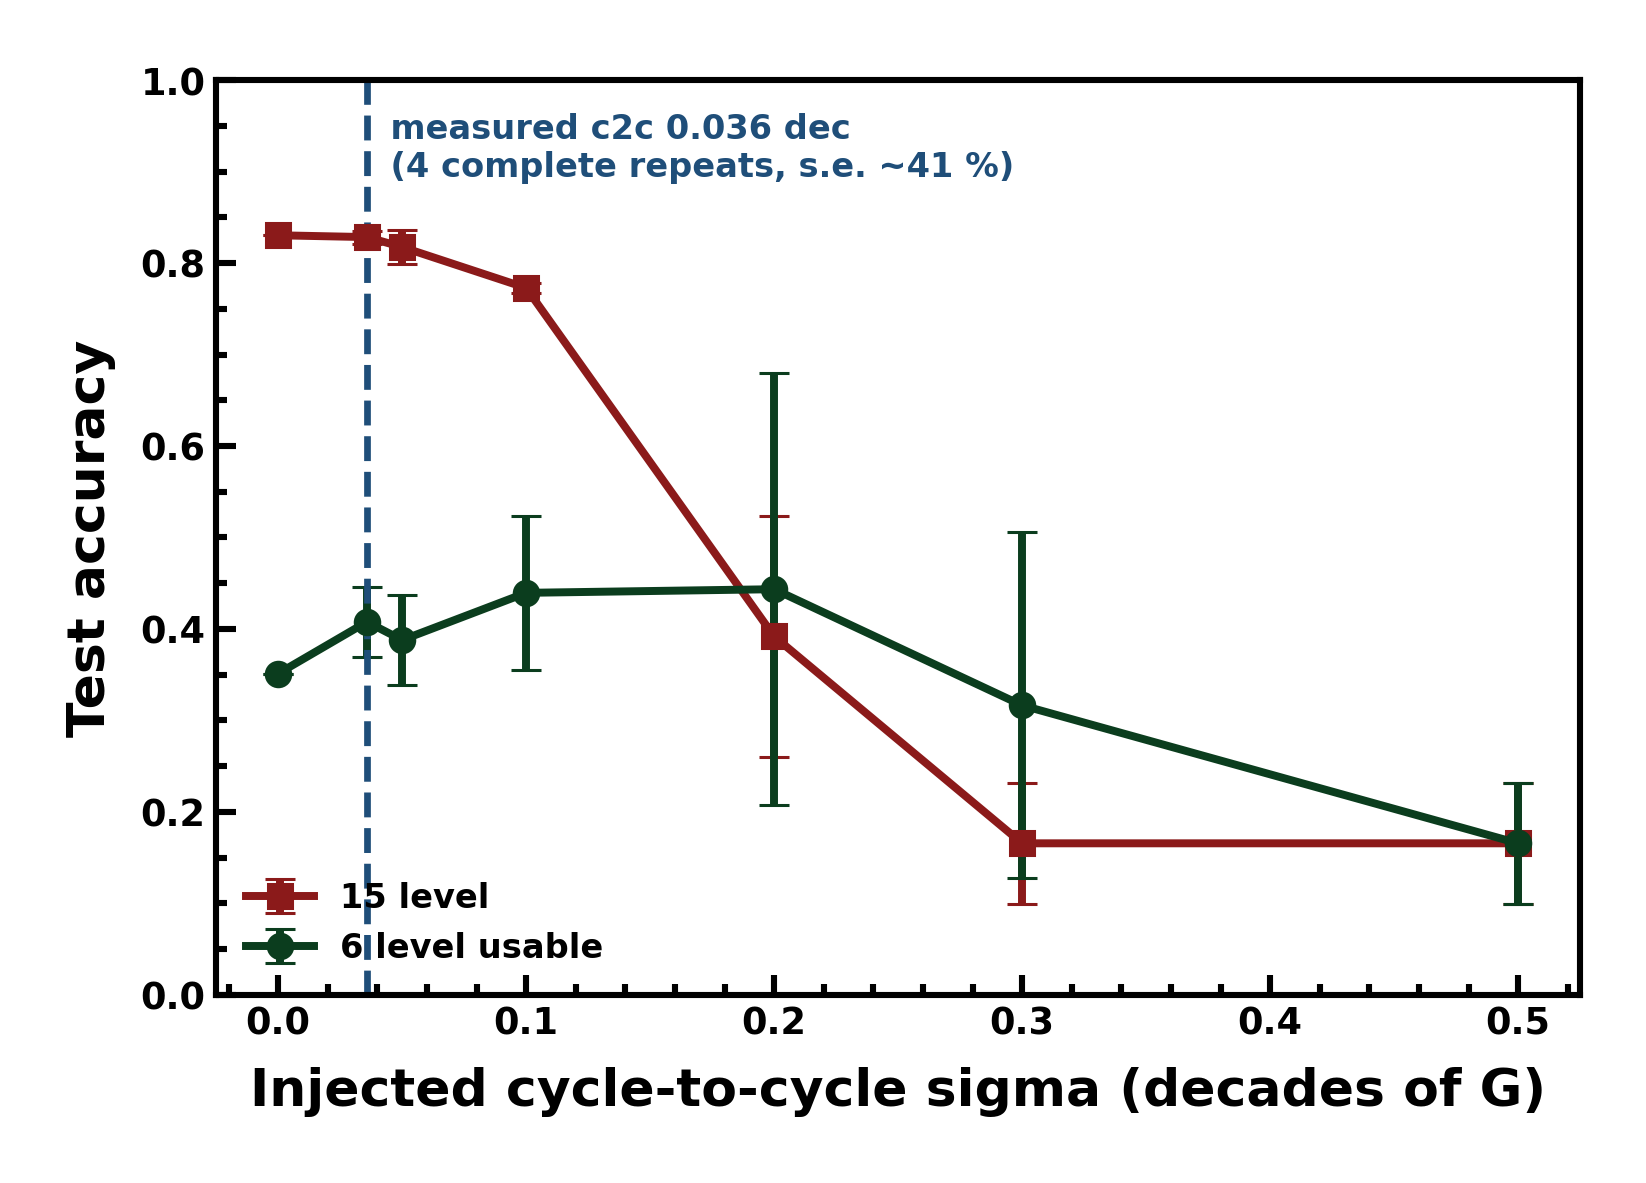
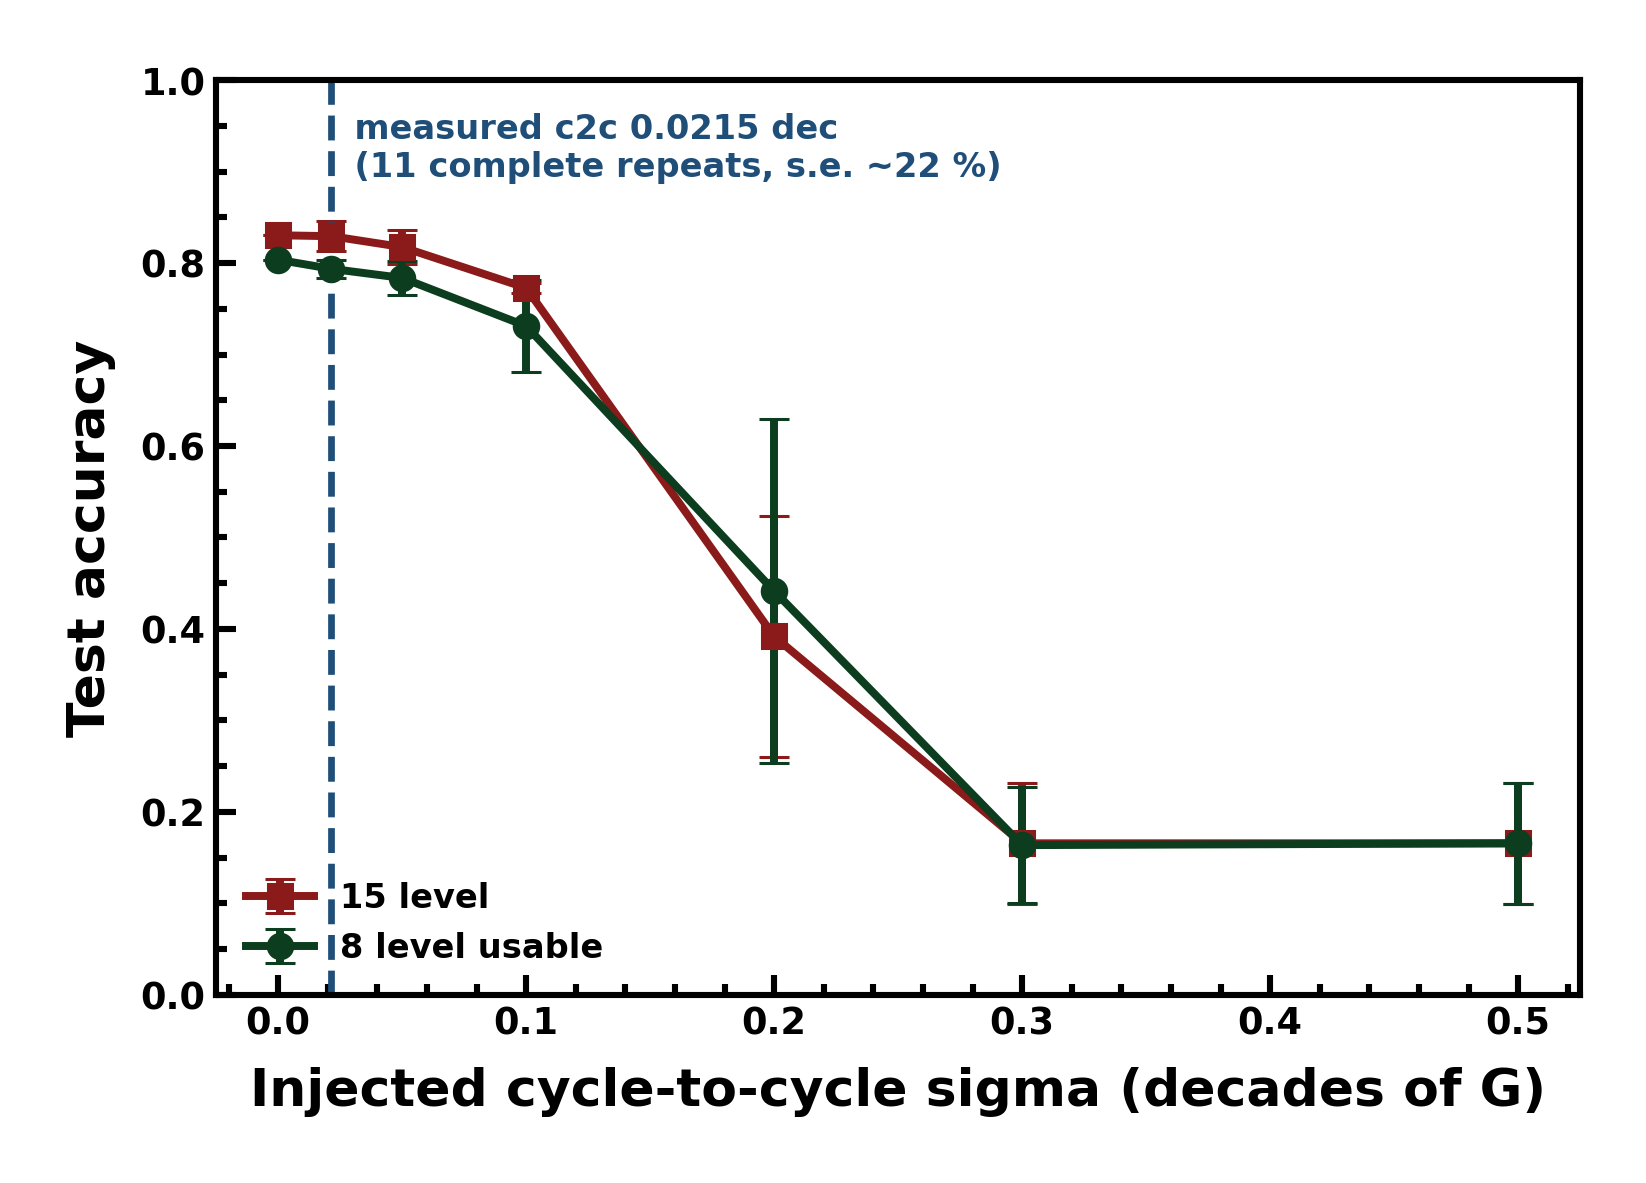
fix: K3b on the full t17_c2c download -- 11 repeats, not 4
A second harvest pass completed the t17_c2c download and rr8b re-ran on the
fuller set, so the numbers committed in ce60a64 are superseded:

                        4 repeats (was)   11 repeats (now)
    median sigma          0.0358 dec        0.0215 dec
    relative s.e.           41 %              22 %
    usable at 3 sigma     6 of 15           8 of 15  (band 7-9)
    15-level @ measured   0.8284            0.8294
    usable-grid @ meas.   0.4077            0.7937

The direction holds -- keeping all 15 levels is still right, and separability
still fails to predict accuracy -- but the magnitude does not. Restricting to
the separable count costs 0.036, not 0.42-0.48. The earlier figure came from 6
levels landing in the catastrophic regime K2 mapped; 8 lands on K2's
good-placement point.

That instability is now the headline argument rather than the raw penalty: a
design rule whose cost swings an order of magnitude on which integer a 3-sigma
test returns, from a sigma known to +-22 %, is not one to quantize a network by.
The robust statement is the direct one -- at the measured sigma, keeping all 15
levels costs 0.001.

Figure replotted from the 11-repeat sweep. PHASE_6_RESULTS 6.4c rewritten,
METHODOLOGY, README, PLOT_PLAN and the module docstring follow.

diff --git a/PYTHON_Modelling_Fefet_Codes/ecg detection/fig_k3_variability.py b/PYTHON_Modelling_Fefet_Codes/ecg detection/fig_k3_variability.py
@@ -49,14 +49,21 @@ K3b  cycle-to-cycle (RR-8b, `raw/c2c_per_level.csv`).
      kfig_common.paired_branches. On this ladder that matters -- (G+ + G-)/|w| reaches 4.8
      for weights like +-0.344 that can only be built as 1.000 - 0.656.
 
-     RESULT (t17_c2c, capped at 4 complete repeats, median sigma 0.0358 dec): the 15-level
-     grid loses 0.002 accuracy at the measured sigma (0.8304 -> 0.8284) and does not knee
-     until sigma ~ 0.1-0.2. Quantizing to the 6 levels that pass the 3-sigma criterion
-     costs 0.42-0.48 instead. So do NOT quantize to the separable-level count: separability
+     RESULT (t17_c2c, capped at 11 complete repeats of 20, median sigma 0.0215 dec, s.e.
+     ~22 %): the 15-level grid loses 0.001 accuracy at the measured sigma (0.8304 ->
+     0.8294) and does not knee until sigma ~ 0.1-0.2, i.e. 5-9x the measurement.
+     Quantizing to the 8 levels that pass the 3-sigma criterion costs 0.036 instead.
+
+     Do NOT quantize to the separable-level count, for two reasons. First, separability
      asks whether a level can be told apart from its neighbour on READOUT, while the
      network only needs the realized weight near the target, and levels that overlap under
-     noise are still monotonic and still carry weight information. This is the third place
-     in Phase 6 where a level-distinguishability statistic fails to predict accuracy.
+     noise are still monotonic and still carry weight information -- the third place in
+     Phase 6 where a level-distinguishability statistic fails to predict accuracy. Second,
+     and more practically, the criterion's OUTPUT IS UNSTABLE: an earlier pass on a partial
+     download saw 4 repeats, put sigma at 0.0358 and the count at 6, and 6 lands in the
+     catastrophic regime K2 mapped -- so the same rule would have cost 0.42 instead of
+     0.036. A design rule whose penalty swings an order of magnitude on which integer a
+     3-sigma test returns, from a sigma known to +-22 %, is not one to quantize by.
 
     python fig_k3_variability.py d2d     # K3a: 20 corners, no calibration vs write-verify
     python fig_k3_variability.py gain    # K3a: adds the gain-trim condition

diff --git a/PHASE_6_RESULTS.md b/PHASE_6_RESULTS.md
@@ -21,7 +21,7 @@ turned out to be wrong:
 | `dev1/2/4/5` figures | still pre-Phase-1 **and** pre-RR-0; the published memory-window figure was the superseded sweep |
 | `dev3_retention` | plotted the 17.5–100 µs settling transient and captioned it as retention drift — Phase-5 error #7 baked into a figure |
 | K3b noise model | mine: c2c was multiplying the weight instead of each conductance branch |
-| handoff §6.4 point 3 | "quantize to the separable-level count, not 15" costs **0.42–0.48 accuracy**; the measured c2c costs 0.002 (§6.4c) |
+| handoff §6.4 point 3 | "quantize to the separable-level count, not 15" costs **0.036 accuracy**, and the criterion's own output is unstable (6 levels on 4 repeats, 8 on 11); the measured c2c itself costs 0.001 (§6.4c) |
 
 And `cal_n16`'s MW = 1.218 vs 1.30 V was resolved as a **criterion** mismatch, not a
 fabrication (§"Also fixed on the way past").
@@ -246,57 +246,61 @@ decades.
 
 RR-8b repeats the **same** 15-pulse train on **one** device, so unlike RR-8 it is a genuine
 σ and is the legitimate stochastic input. The run was **capped, not completed**: the worker
-killed it at 7200 s (`END t17_c2c rc=137 7200s plt=1270`) after 4 complete repeats of the
-20 queued, plus a partial fifth that `rr8b` dropped by name. Reported as 4 repeats, not 20.
+killed it at 7200 s (`END t17_c2c rc=137 7200s plt=1270`), and `rr8b` kept the **11 complete
+repeats** of the 20 queued, dropping the partial ones by name.
 
 | | |
 |---|---|
-| median σ | **0.0358 decades** |
-| complete repeats | **4** of 20 → relative s.e. of σ ≈ **41 %** |
-| usable levels at 3σ | **6** of 15 (band 5–8 across the σ uncertainty) |
+| median σ | **0.0215 decades** |
+| complete repeats | **11** of 20 → relative s.e. of σ ≈ **22 %** |
+| usable levels at 3σ | **8** of 15 (band 7–9 across the σ uncertainty) |
 
-| injected σ (dec) | 0 | **0.0358** | 0.05 | 0.10 | 0.20 | 0.30 |
+| injected σ (dec) | 0 | **0.0215** | 0.05 | 0.10 | 0.20 | 0.30 |
 |---|---:|---:|---:|---:|---:|---:|
-| 15-level grid | 0.8304 | **0.8284** | 0.8175 | 0.7728 | 0.3919 | 0.1657 |
-| 6-level "usable" grid | 0.3512 | 0.4077 | 0.3879 | 0.4395 | 0.4435 | 0.3165 |
+| 15-level grid | 0.8304 | **0.8294** | 0.8175 | 0.7728 | 0.3919 | 0.1657 |
+| 8-level "usable" grid | 0.8036 | 0.7937 | 0.7837 | 0.7312 | 0.4415 | 0.1637 |
 
-**At the measured σ the full 15-level grid loses 0.002 accuracy.** The knee is at
-σ ≈ 0.1–0.2 decades, so the device sits 3–6× below it. That conclusion survives the thin
-statistics: at 0.05 (≈ +1 s.e. on σ) accuracy is still 0.8175, and it only collapses at
-0.20, which is ≈4.4 s.e. above the measurement.
+**At the measured σ the deployed 15-level network loses 0.001 accuracy.** The knee is at
+σ ≈ 0.1–0.2 decades, so the device sits 5–9× below it, and the conclusion is robust to the
+σ uncertainty: even at 0.05 (≈ +2 s.e.) accuracy is still 0.8175.
 
-### The handoff's prescription for this figure is wrong, and the data says so
+### On the handoff's instruction for this figure
 
-The handoff instructed: *"`c2c_per_level.csv` carries a `separable_from_prev` column at a
-3-sigma criterion and the analysis prints the usable level count — **that count, not 15, is
-what K3 should quantize to**."*
+The handoff said: *"`c2c_per_level.csv` carries a `separable_from_prev` column at a 3-sigma
+criterion and the analysis prints the usable level count — **that count, not 15, is what K3
+should quantize to**."*
 
-Quantizing to that count costs **0.42–0.48 accuracy** (0.8304 → 0.3512 at σ = 0; 0.8284 →
-0.4077 at the measured σ). Keeping all 15 levels under the measured noise costs 0.002.
-Following the instruction would have made the reported result dramatically worse and would
-have blamed the device for it.
+Quantizing to that count costs **0.036 accuracy** (0.8294 → 0.7937 at the measured σ), so it
+is still the wrong call — but modestly, not catastrophically. **This number is the one place
+in Phase 6 where more data moved a conclusion, and it is worth recording why.** An earlier
+pass on a partial download saw only 4 complete repeats, put σ at 0.0358 and the usable count
+at **6**, and gave a penalty of 0.42–0.48. Six levels lands in the catastrophic regime K2
+mapped; eight lands on K2's good-placement point. The accuracy consequence of the criterion
+therefore swung by an order of magnitude on which integer it happened to return.
 
-The reason is that separability and accuracy are different questions. A 3σ criterion asks
-whether a level can be **told apart from its neighbour on readout**. The network never asks
-that: it needs the realized weight to sit near the target, and levels that overlap under
-noise are still monotonic and still carry weight information. Discarding nine of them
-throws away resolution the classifier was using, and the noise that "justified" discarding
-them costs almost nothing.
+**That instability is the real argument against the instruction.** A design rule whose output
+is an integer derived from a 3σ test on a σ that is itself known to ±22 % — and whose cost
+swings from −0.04 to −0.45 depending on whether that integer is 8 or 6 — is not a rule to
+quantize a network by. The robust statement is the direct one: at the measured σ, keeping
+all 15 levels costs 0.001, so keep them.
 
-This is the **third** time in Phase 6 that a level-distinguishability statistic failed to
-predict accuracy — after RR-8's ensemble overlap (§6.4a) and the post-gain-trim overlap
-(§6.4b). The consistent finding across all three: **overlap and separability describe
-readout addressing, not deployed-weight error, and only the latter moves the classifier.**
+The underlying reason separability is the wrong test is unchanged. It asks whether a level
+can be distinguished from its neighbour **on readout**; the network only requires the
+realized weight to sit near its target, and levels that overlap under noise remain monotonic
+and still carry weight information. This is the **third** independent case in Phase 6 of a
+level-distinguishability statistic failing to predict accuracy — after RR-8's ensemble
+overlap (§6.4a) and the post-gain-trim overlap (§6.4b). Consistently: **overlap and
+separability describe readout addressing, not deployed-weight error, and only the latter
+moves the classifier.**
 
-One detail worth not over-reading: the 6-level series is *non-monotonic* in σ (0.351 →
-0.408 → 0.388 → 0.440 → 0.444). Noise dithers a grid too coarse to represent the weights,
-which occasionally helps — the same erratic sub-8-level behaviour K2 found, and not a
-result to build on.
+One detail not to over-read: deep in the collapse (σ = 0.2) the 8-level grid slightly beats
+the 15-level one (0.4415 vs 0.3919). A coarser grid is more noise-robust once noise exceeds
+level spacing — but both are far below usable accuracy there, so it is not a design argument.
 
-**Caveat carried into the paper:** 4 repeats is thin, and σ is known only to ±41 %. The
-claim being made is bounded — *at and around the measured σ, cycle-to-cycle costs
-essentially nothing* — not a precise σ. A completed 20-repeat run would tighten σ but
-cannot change that conclusion unless the true σ is ~3× the measured one.
+**Caveat carried into the paper:** 11 repeats, not the 20 queued, and σ is known to ±22 %.
+The claim is bounded — *at and around the measured σ, cycle-to-cycle costs essentially
+nothing* — not a precise σ. A completed run would tighten σ but cannot change that unless the
+true σ is ~5× the measured one.
 
 ---
 

diff --git a/PYTHON_Modelling_Fefet_Codes/ecg detection/METHODOLOGY.md b/PYTHON_Modelling_Fefet_Codes/ecg detection/METHODOLOGY.md
@@ -289,12 +289,13 @@ shared grid cannot uniquely address a level, not that the deployed weight is wro
 to matter.
 
 **Cycle-to-cycle — figure K3b.** RR-8b repeats the same 15-pulse train on one device, which
-*is* a σ. The run was capped by the 2 h worker limit after 4 complete repeats of 20, giving
-a median σ = **0.0358 decades** known to ≈±41 %. At that σ the deployed 15-level network
-loses **0.002 accuracy** (0.8304 → 0.8284) and does not knee until σ ≈ 0.1–0.2, i.e. 3–6×
-the measured value; the conclusion survives the thin statistics, since even at σ = 0.05
-(≈ +1 s.e.) accuracy is 0.8175. Restricting the grid instead to the **6 levels that pass the
-3σ separability criterion costs 0.42–0.48 accuracy**. Separability asks whether a level can
+*is* a σ. The run was capped by the 2 h worker limit after **11 complete repeats** of 20,
+giving a median σ = **0.0215 decades** known to ≈±22 %. At that σ the deployed 15-level
+network loses **0.001 accuracy** (0.8304 → 0.8294) and does not knee until σ ≈ 0.1–0.2, i.e.
+5–9× the measured value; even at σ = 0.05 (≈ +2 s.e.) accuracy is still 0.8175. Restricting
+the grid instead to the **8 levels that pass the 3σ separability criterion costs 0.036**
+(0.8294 → 0.7937) — and that criterion's output is itself unstable, having returned 6 levels
+on a partial 4-repeat pass where the same rule would have cost 0.42. Separability asks whether a level can
 be distinguished from its neighbour on readout; the network only requires the realized
 weight to sit near its target, and levels that overlap under noise remain monotonic and
 still carry weight information. Across K3a, K3c and K3b alike, level-distinguishability

diff --git a/PLOT_PLAN.md b/PLOT_PLAN.md
@@ -564,7 +564,7 @@ but the node needs `plt2csv.py` first; `RR-n` = needs the re-run in Part IV;
 | K2 | SNN accuracy vs number of conductance levels (2…15), two grid constructions + grid-choice band | `ecg detection/fig_k2_levels.py` | **DONE** — `K2_accuracy_vs_levels.{png,csv}` |
 | K3a | SNN accuracy vs **per-device calibration** across the 20 RR-8 corner devices (none 0.243 / gain trim 0.777 / full write-verify 0.830) | `fig_k3_variability.py d2d`, `gain` | **DONE** — `K3a_accuracy_vs_calibration.{png,csv}` |
 | K3c | SNN accuracy vs the level misplacement a gain trim leaves — the placement spec (Spearman −0.85) | `fig_k3_variability.py ladder`, `shape` | **DONE** — `K3c_accuracy_vs_shape_error.{png,csv}`, `K3a_ladder_shift.csv`, `K3a_overlap_after_gain_trim.csv` |
-| K3b | SNN accuracy vs **measured cycle-to-cycle σ** (RR-8b), 15-level vs usable-level grid | `fig_k3_variability.py c2c` + `raw/c2c_per_level.csv` | **DONE** — `K3b_accuracy_vs_c2c.{png,csv}`; σ=0.0358 dec costs 0.002 accuracy, the 6-level "usable" grid costs 0.42–0.48 |
+| K3b | SNN accuracy vs **measured cycle-to-cycle σ** (RR-8b), 15-level vs usable-level grid | `fig_k3_variability.py c2c` + `raw/c2c_per_level.csv` | **DONE** — `K3b_accuracy_vs_c2c.{png,csv}`; σ=0.0215 dec (11 repeats) costs 0.001 accuracy; the 8-level "usable" grid costs 0.036 |
 | K4 | Energy per inference breakdown — device write vs read vs peripheral, all counts measured | `fig_k4_energy.py` | **DONE** — `K4_energy_per_inference.{png,csv}` |
 
 K3 split into two panels in Phase 6: RR-8 is a **corner envelope** (worst case, never a

diff --git a/PYTHON_Modelling_Fefet_Codes/ecg detection/README.md b/PYTHON_Modelling_Fefet_Codes/ecg detection/README.md
@@ -33,7 +33,7 @@ Phase 6 (2026-08-01) adds three figures, all reproducible from this folder:
 | script | figure | claim |
 |---|---|---|
 | `fig_k2_levels.py` | **K2** accuracy vs level count | level *count* is not the figure of merit — at fixed n, accuracy swings with where the levels sit (n=8: 0.34–0.80); ~10–12 levels are needed for placement-robust operation |
-| `fig_k3_variability.py` | **K3a/K3b/K3c** accuracy vs variability | d2d shifts a device's whole ladder — write-verify recovers it exactly (0.830); the measured c2c σ = 0.036 dec costs 0.002. Level *overlap* and *separability* do not predict accuracy; per-device level misplacement does |
+| `fig_k3_variability.py` | **K3a/K3b/K3c** accuracy vs variability | d2d shifts a device's whole ladder — write-verify recovers it exactly (0.830); the measured c2c σ = 0.022 dec costs 0.001. Level *overlap* and *separability* do not predict accuracy; per-device level misplacement does |
 | `fig_k4_energy.py` | **K4** energy per inference | core compute 535.8 pJ/beat; whole-array programming 69.6 pJ **one-time**; the assumed column ADCs are 342× the core |
 
 Per-class on-device (Se / +P / F1): N 0.906/0.969/0.937 · F 0.868/0.589/0.702 ·
